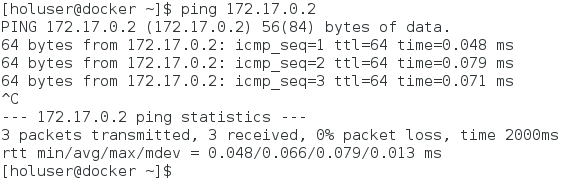
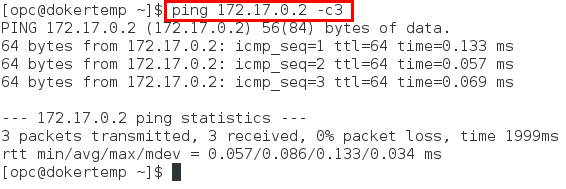
trial account updates

diff --git a/workshops/docker/Linux100.md b/workshops/docker/Linux100.md
@@ -185,7 +185,7 @@ docker network inspect bridge
 - **Type** the following:
 
 ```
-ping 172.17.0.2
+ping 172.17.0.2 -c3
 ```
 
 ![](images/100Linux/Picture100-11.png)
